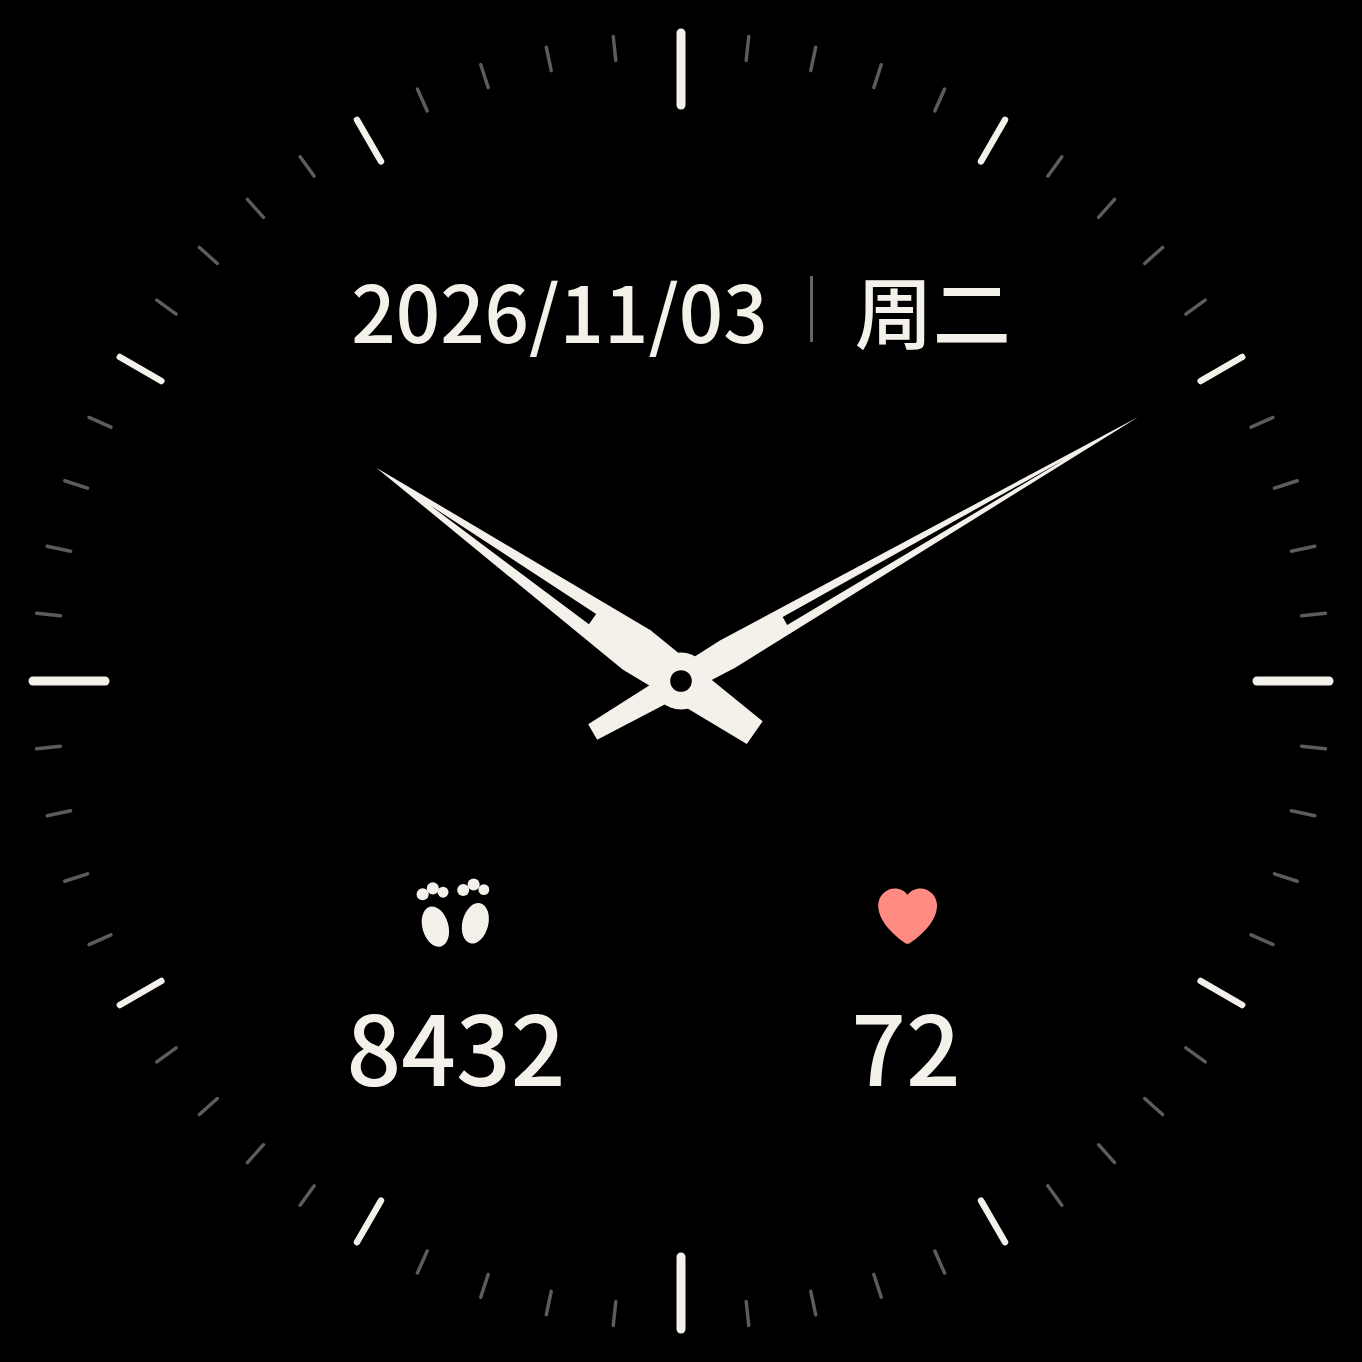
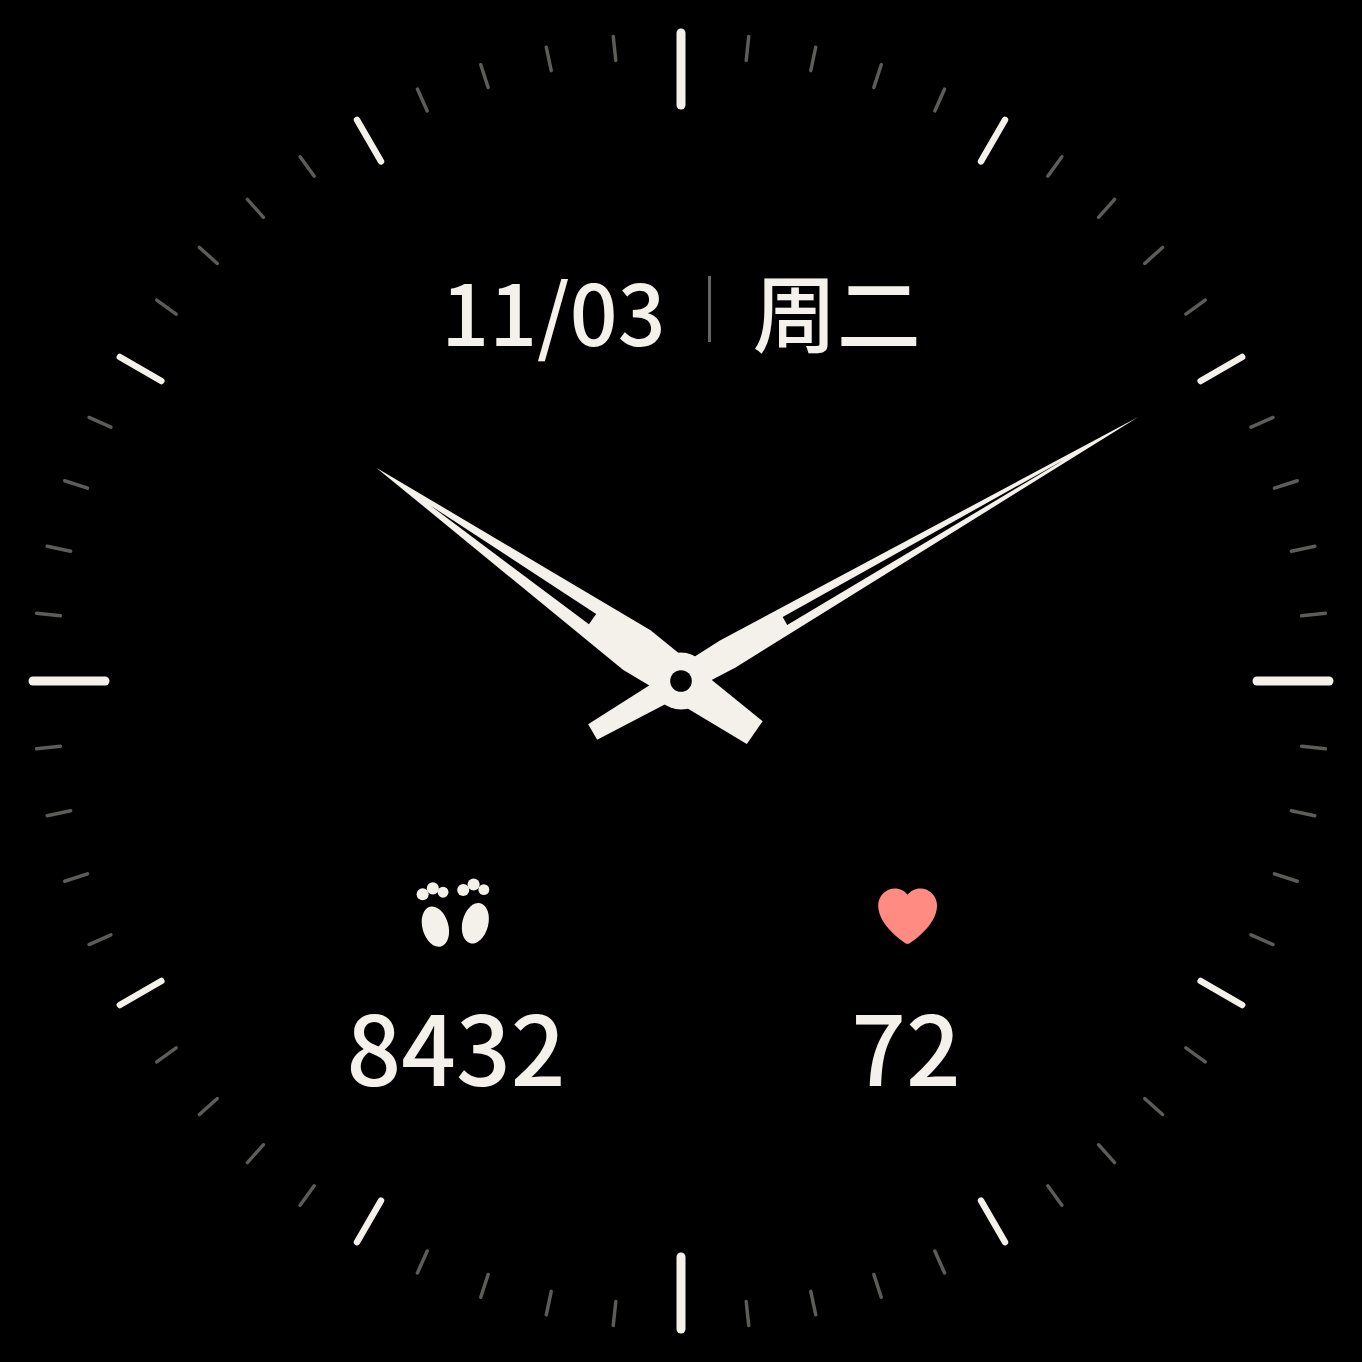
Drop the year from the dial dateline

Changed region(s): [[0.2467, 0.185, 0.7401, 0.2775], [0.7093, 0.185, 0.7401, 0.2159]]

diff --git a/design/dial.js b/design/dial.js
@@ -95,7 +95,7 @@
     return (
       '<div style="position:absolute;left:0;right:0;top:86px;height:34px;' +
       "display:flex;align-items:center;justify-content:center;gap:14px;" +
-      "font-family:DialHan,'Noto Sans',sans-serif;font-size:26px;font-weight:500;" +
+      "font-family:DialHan,'Noto Sans',sans-serif;font-size:28px;font-weight:500;" +
       "font-variant-numeric:tabular-nums;color:" + t.fg + '">' +
       "<span>" + date + "</span>" +
       '<i style="display:block;width:1px;height:22px;background:' + t.rule + '"></i>' +

diff --git a/design/mockup.html b/design/mockup.html
@@ -130,7 +130,7 @@
 
   <script src="dial.js"></script>
   <script>
-    var data = { hour: 10, minute: 10, date: "2026/11/03", weekday: "周二", steps: "8432", bpm: "72" };
+    var data = { hour: 10, minute: 10, date: "11/03", weekday: "周二", steps: "8432", bpm: "72" };
     renderWatchFace(document.getElementById("case-day"), "day", data);
     renderWatchFace(document.getElementById("case-night"), "night", data);
   </script>

diff --git a/design/dial.html b/design/dial.html
@@ -18,7 +18,7 @@
   renderWatchFace(document.getElementById("root"), key, {
     hour: 10,
     minute: 10,
-    date: "2026/11/03",
+    date: "11/03",
     weekday: "周二",
     steps: "8432",
     bpm: "72"

diff --git a/design/README.md b/design/README.md
@@ -6,7 +6,7 @@
 
 | 区域 | 内容 | 位置 |
 | --- | --- | --- |
-| 上半区 | 日期（含年）+ 星期 | 沿垂直中轴对称，例 `2026/11/03 | 周二` |
+| 上半区 | 日期 + 星期 | 沿垂直中轴对称，例 `11/03 | 周二` |
 | 下半区左 | 步数 | 列心 x=152，图标在上、数字在下 |
 | 下半区右 | 心率 | 列心 x=302，与左列同 y，图标顶边与数字基线对齐 |
 
